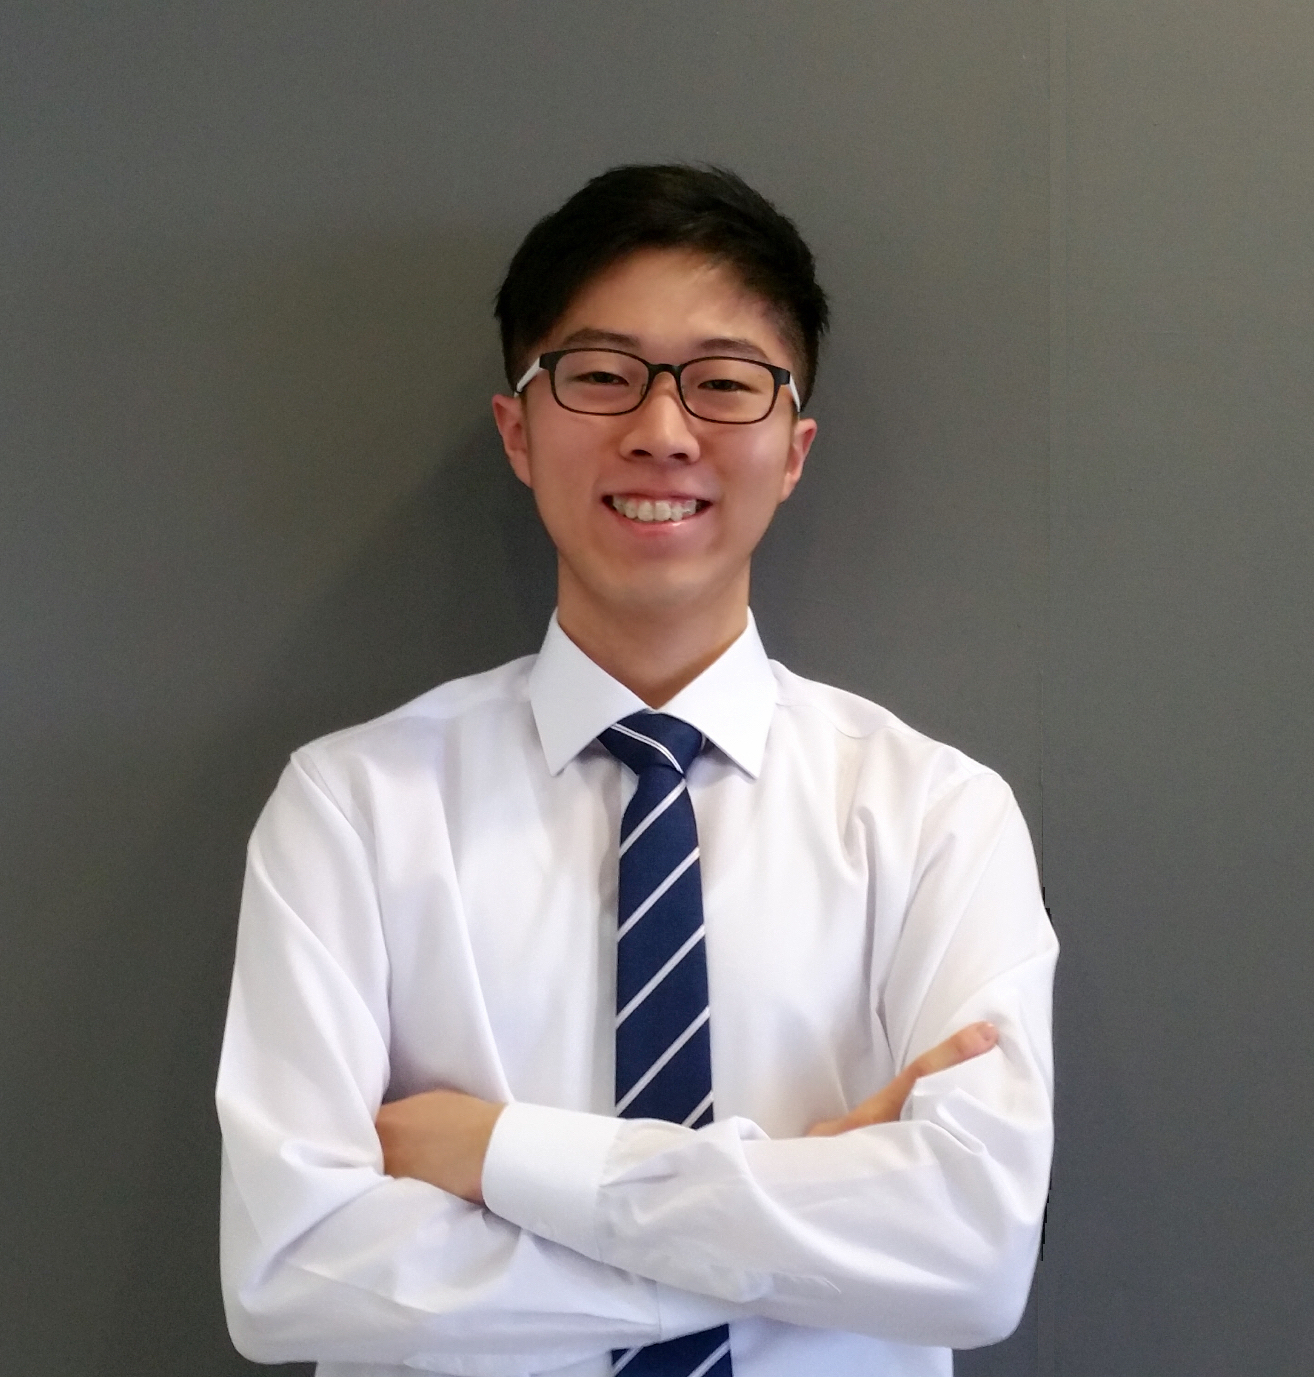
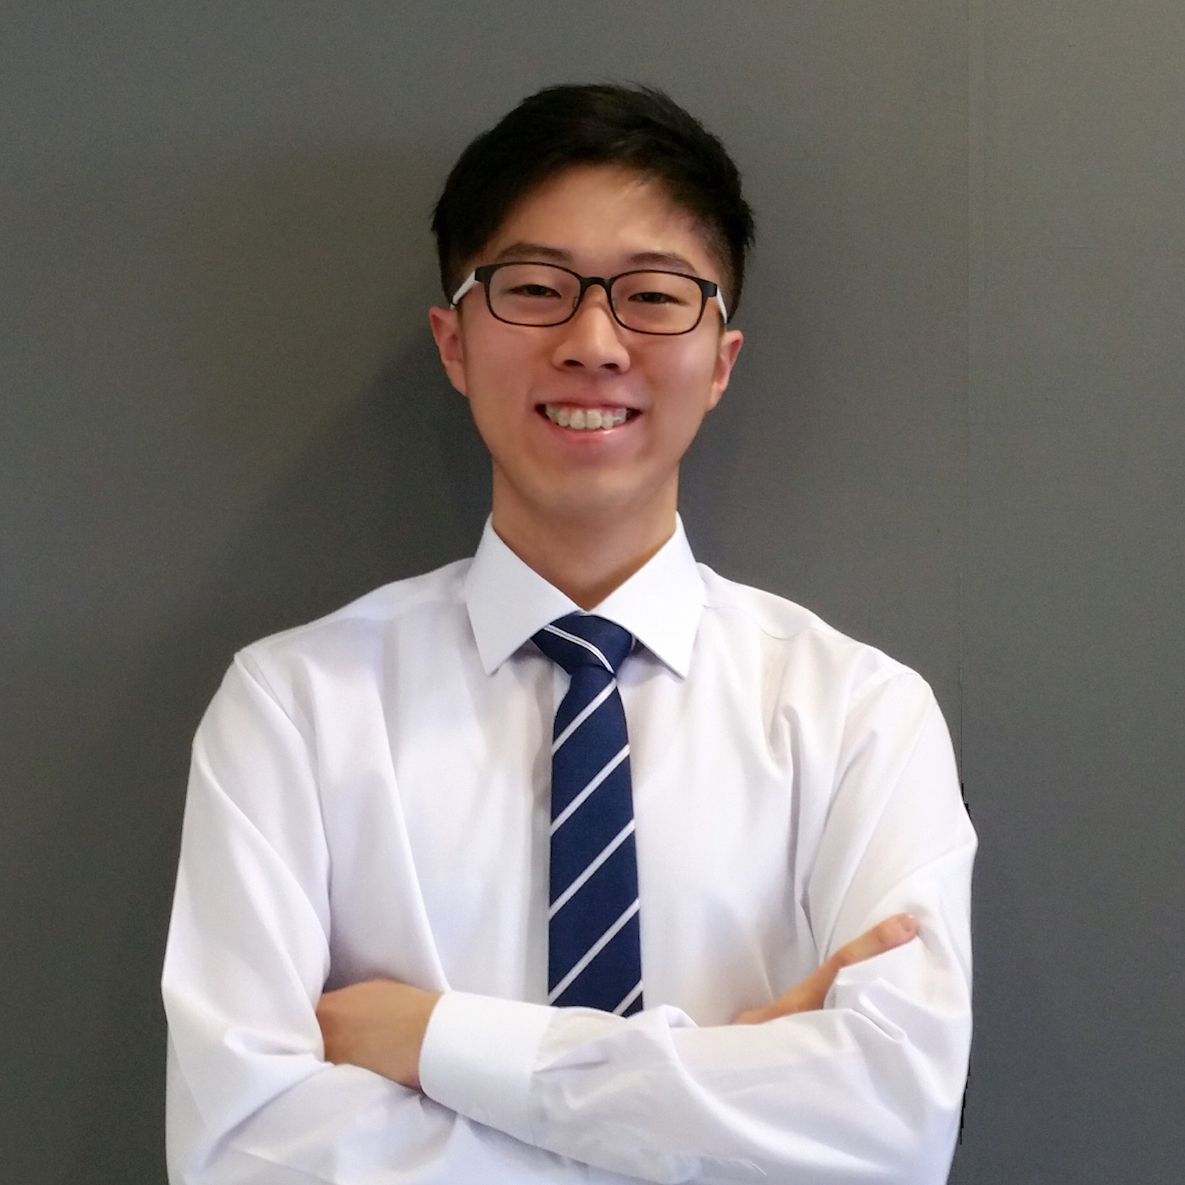
webdev commit

Changed region(s): [[0.1249, 0.0624, 0.843, 1.0], [0.7181, 0.5308, 0.7494, 0.562], [0.6557, 0.4996, 0.6869, 0.5308]]

diff --git a/ion-482789329/index.html b/ion-482789329/index.html
@@ -88,21 +88,21 @@
 							<section class="special">
 								<a href="#" class="image fit"><img src="images/SB.jpg" alt="" /></a>
 								<h3>Shubhom Bhattacharya</h3>
-								<p>He is a freshman at Cornell University, studying ECE at the College of Engineering. For more info, head over to http://shubhom.me/. </p>
+								<p>He is a freshman at Cornell University, studying ECE at the College of Engineering. On this project, he worked on back-end development, analyzing news headlines via Webhose.io. For more info, head over to http://shubhom.me/. </p>
 							</section>
 						</div>
 						<div class="4u">
 							<section class="special">
-								<a href="#" class="image fit"><img src="images/pic02.jpg" alt="" /></a>
+								<a href="#" class="image fit"><img src="images/JL.jpg" alt="" /></a>
 								<h3>Jared Lim</h3>
-								<p>He is a freshman at Cornell University, studying Computer Science at the College of Arts and Sciences. For more info, go to http://junyounglim.com/.</p>
+								<p>He is a freshman at Cornell University, studying Computer Science at the College of Arts and Sciences. On this project, he worked on data science, using R and HTML. For more info, go to http://junyounglim.com/.</p>
 							</section>
 						</div>
 						<div class="4u">
 							<section class="special">
-								<a href="#" class="image fit"><img src="images/pic02.jpg" alt="" /></a>
+								<a href="#" class="image fit"><img src="images/JW.jpg" alt="" /></a>
 								<h3>Jia Wei</h3>
-								<p>She is a freshman at Cornell University, studying Computer Science at the College of Arts and Sciences.</p>
+								<p>She is a freshman at Cornell University, studying Computer Science at the College of Arts and Sciences. On this project, she worked front-end development, using HTML and CSS.</p>
 							</section>
 						</div>
 					</div>

diff --git a/ion-482789329/left-sidebar.html b/ion-482789329/left-sidebar.html
@@ -46,7 +46,7 @@
 					<div class="dropdown">
 	  					<button onclick="myFunction()" class="dropbtn">Choose a Company</button>
 	  						<div id="myDropdown" class="dropdown-content">
-	    						<a href="alexa.html">Alexa</a>
+	    						<a href="amazon.html">Amazon</a>
 	    						<a href="capitalOne.html">Capital One</a>
 	    						<a href="google.html">Google</a>
 	    						<a href="honeywell.html">Honeywell</a>
